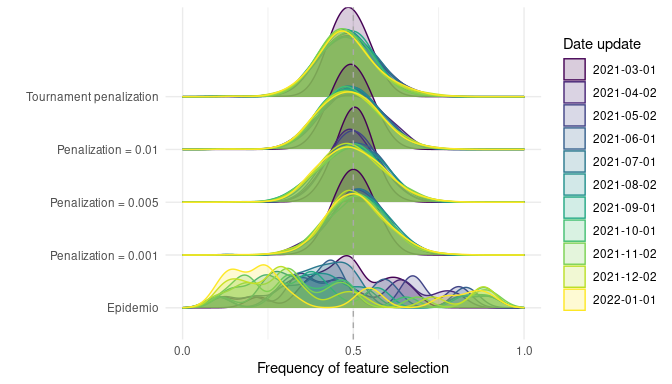
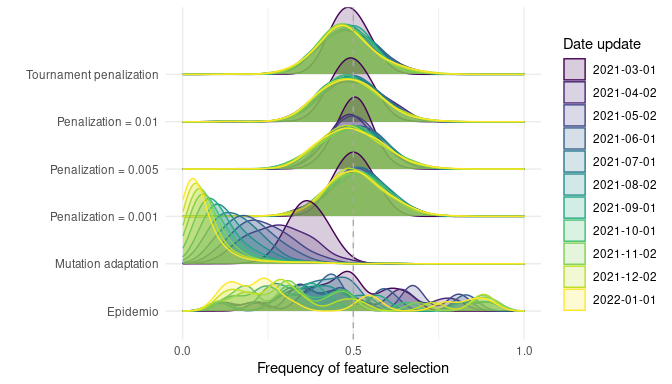
update report

Changed region(s): [[0.0625, 0.0, 0.7812, 0.8438], [0.0312, 0.1875, 0.25, 0.3438], [0.0625, 0.375, 0.25, 0.4688]]

diff --git a/script/results_high_dim_rc_exp2.md b/script/results_high_dim_rc_exp2.md
@@ -54,6 +54,8 @@ prediction](results_high_dim_rc_exp2_files/figure-commonmark/sanitycheck-1.png)
 |:---|:---|:---|:---|:---|:---|
 | Epidemio | No monthly update | 15.4(±13.1) | 0.27(±0.33) | -3.18(±6.59) | 0.85(±1.74) |
 | Epidemio | Monthly update | 15.23(±13.78) | 0.24(±0.35) | -3.35(±8.58) | 0.84(±2.1) |
+| Mutation adaptation | No monthly update | 15.04(±12.02) | 0.25(±0.33) | -3.55(±6.94) | 0.85(±1.47) |
+| Mutation adaptation | Monthly update | 15.32(±12.99) | 0.25(±0.35) | -3.27(±6.66) | 0.86(±1.34) |
 | Penalization = 0.001 | No monthly update | 15.11(±13.08) | 0.25(±0.35) | -3.48(±6.66) | 0.84(±0.84) |
 | Penalization = 0.001 | Monthly update | 15.63(±13.26) | 0.28(±0.36) | -2.96(±5.91) | 0.86(±1.61) |
 | Penalization = 0.005 | No monthly update | 15.25(±12.75) | 0.26(±0.32) | -3.34(±6.88) | 0.84(±1.74) |
@@ -89,3 +91,5 @@ individuals.](results_high_dim_rc_exp2_files/figure-commonmark/unnamed-chunk-7-1
 ![](results_high_dim_rc_exp2_files/figure-commonmark/freqselectionfeatures-1.png)
 
 ![](results_high_dim_rc_exp2_files/figure-commonmark/unnamed-chunk-8-1.png)
+
+![](results_high_dim_rc_exp2_files/figure-commonmark/unnamed-chunk-9-1.png)
